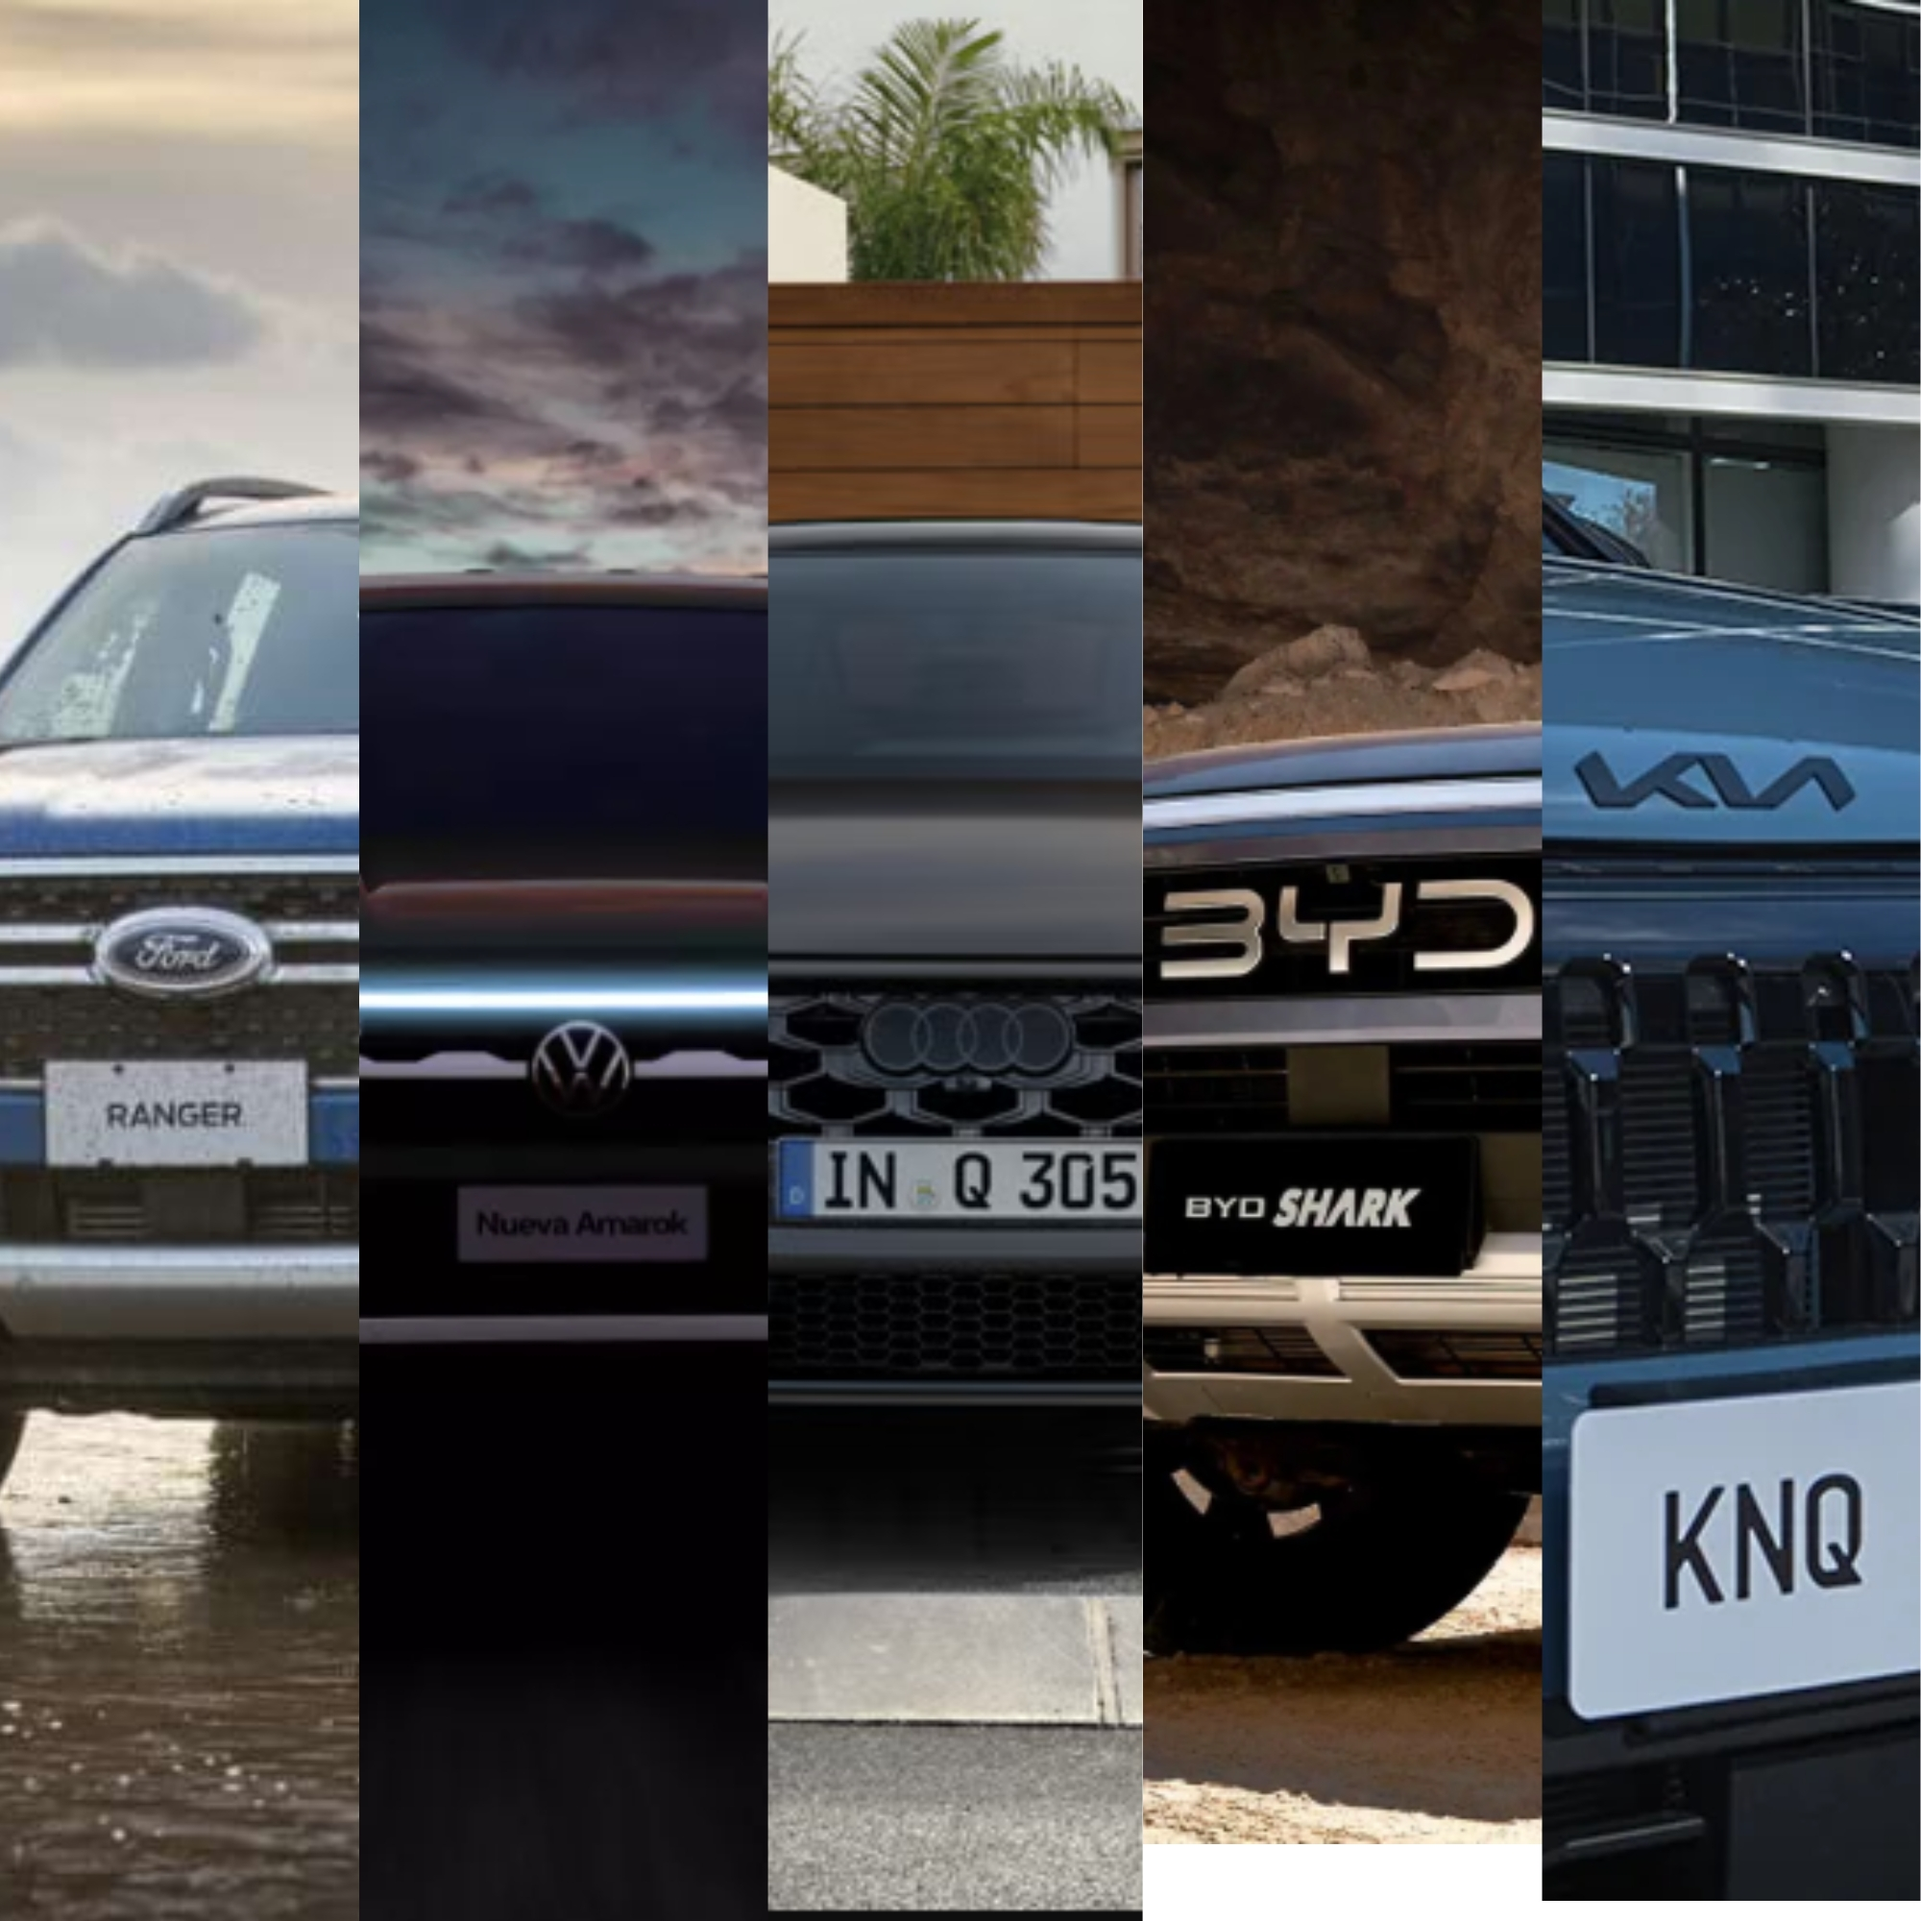
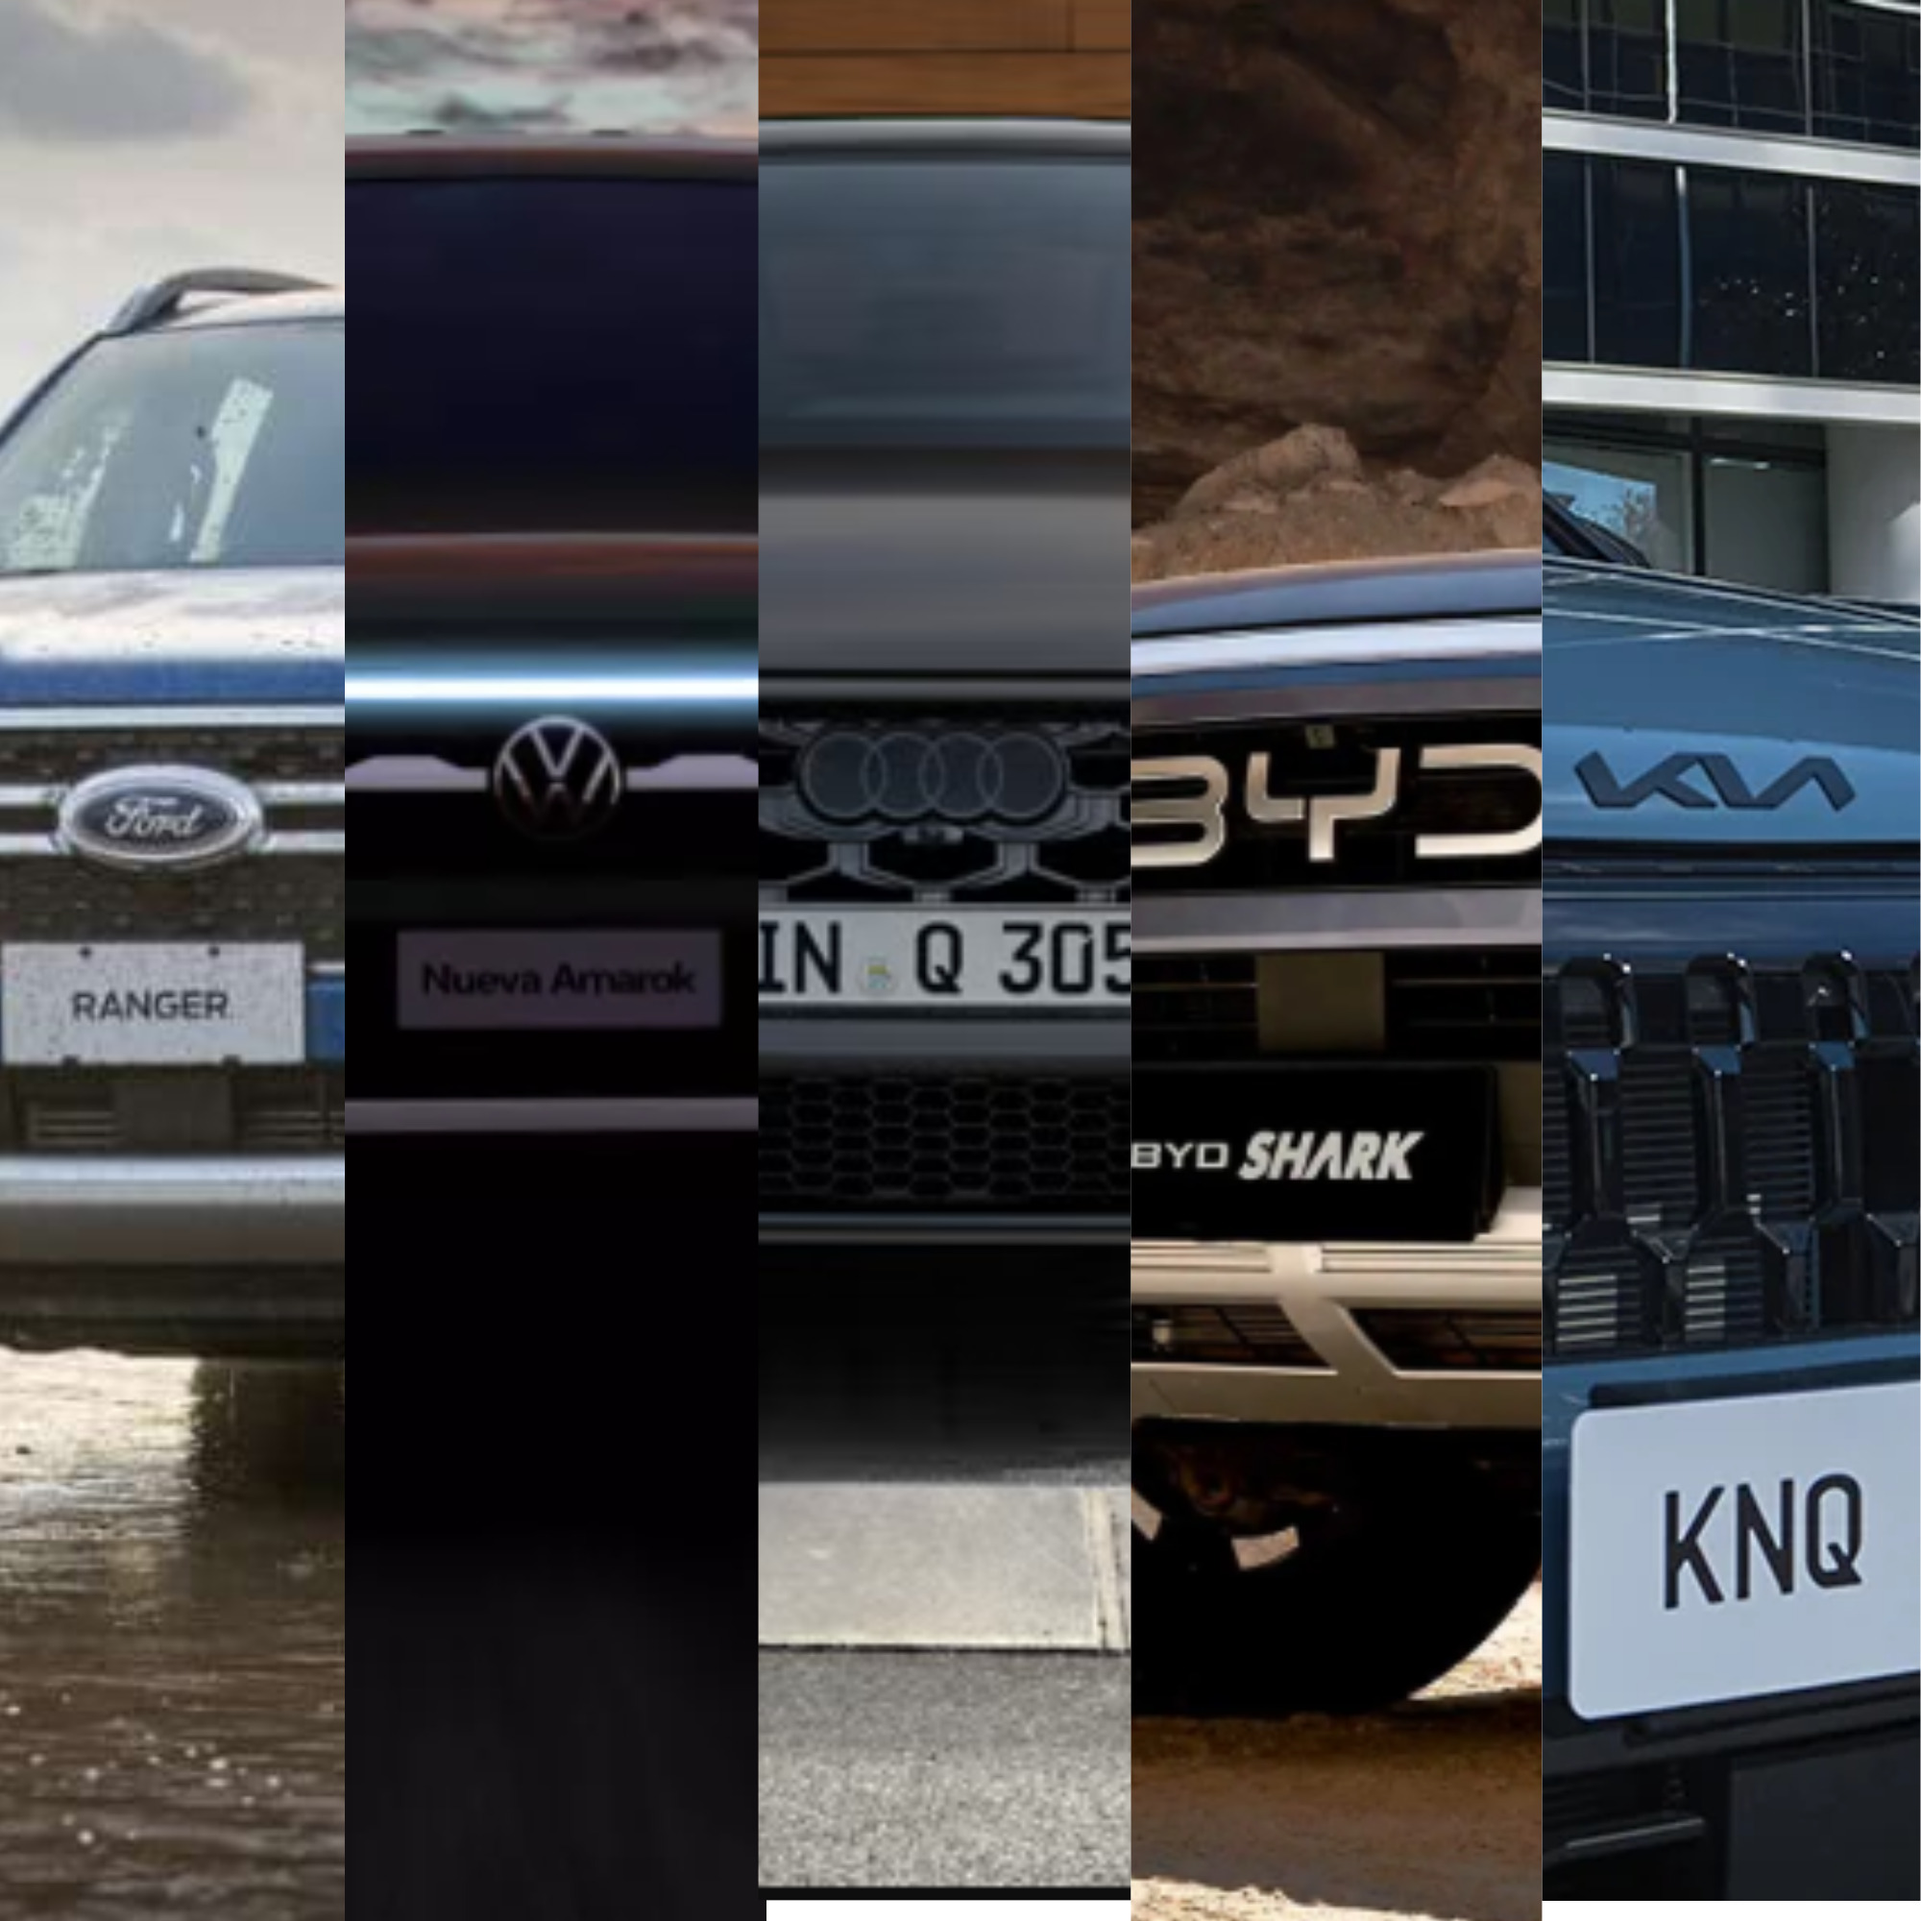
v1.0.1.6

diff --git a/style.css b/style.css
@@ -213,7 +213,7 @@ main {
     left: 0;
     transform: translateX(0); 
     transition: transform 0.6s ease-in-out, filter 0.5s ease;
-    filter: brightness(0.4) grayscale(0.3);
+    filter: brightness(0.7) grayscale(0.2);
 }
 
 /* Vinculación de tus archivos reales */
@@ -235,7 +235,7 @@ main {
 }
 
 #hero-marcas:hover .slider-fondo {
-    animation: desfileVehiculos 8s infinite; 
+    animation: desfileVehiculos 10s infinite; 
     filter: brightness(0.8) grayscale(0);
 }
 
@@ -256,7 +256,7 @@ main {
 }
 
 .overlay-hero span {
-    background: rgba(0, 0, 0, 0.65); 
+    background: rgba(0, 0, 0, 0.55); 
     color: #fff; 
     width: 100%; 
     padding: 22px 0;
@@ -267,7 +267,7 @@ main {
     text-transform: uppercase;
     letter-spacing: 5px; 
     text-align: center;
-    backdrop-filter: blur(4px); 
+    backdrop-filter: blur(3px); 
     transition: 0.4s cubic-bezier(0.175, 0.885, 0.32, 1.275);
 }
 

diff --git a/sw.js b/sw.js
@@ -1,4 +1,4 @@
-const CACHE_NAME = 'dietrich-cache-v1.0.1.5'; // Subimos a 1.0.1.5 para testear (15/04/2026 15:34 PM)
+const CACHE_NAME = 'dietrich-cache-v1.0.1.6'; // Subimos a 1.0.1.6 para testear (16/04/2026 17:07 PM)
 const assets = [
   './',
   './index.html',
